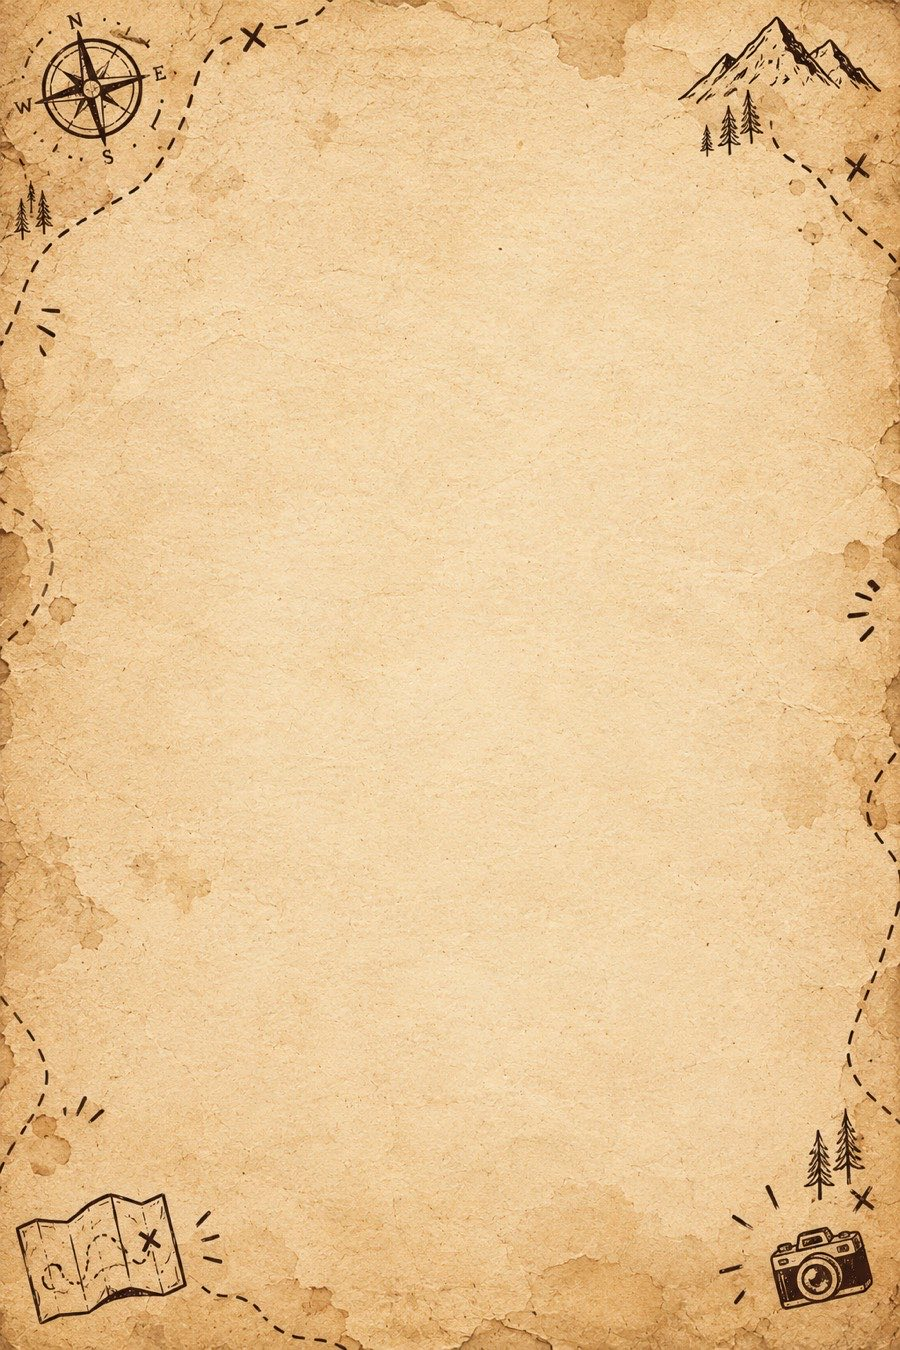
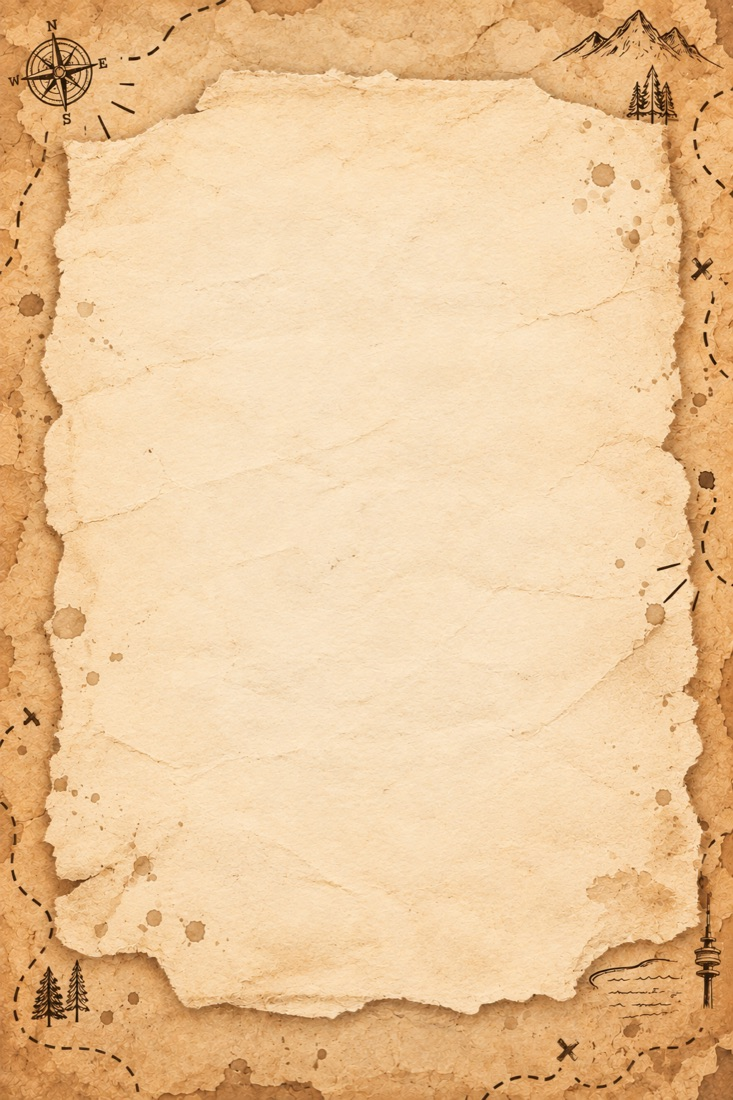
Pergament-Hintergrund: Textboxen an Papierton angeglichen

diff --git a/index.html b/index.html
@@ -5,10 +5,10 @@
 <link href="https://fonts.googleapis.com/css2?family=Permanent+Marker&family=Amatic+SC:wght@400;700&family=Bree+Serif&display=swap" rel="stylesheet">
 <style>
   :root {
-    --bg: #faf4e8; --card: rgba(255,253,248,0.82); --ink: #211a12; --muted: #6b6052;
+    --bg: #f7e0bc; --card: rgba(248,230,196,0.92); --ink: #211a12; --muted: #6b6052;
     --accent: #1c5fb8; --accent-ink: #0f3a73; --accent-light: #e2edfb;
     --gold: #c9971f; --gold-light: #faf0da;
-    --border: #e6dcc6; --danger: #b8402c; --ok: #2f7d4f;
+    --border: #e3cca3; --danger: #b8402c; --ok: #2f7d4f;
     --stille: #5a5648; --stille-light: #eceae2;
     --bg-overlay: rgba(0,0,0,0.12);
     --display: 'Permanent Marker', 'Segoe Print', cursive;
